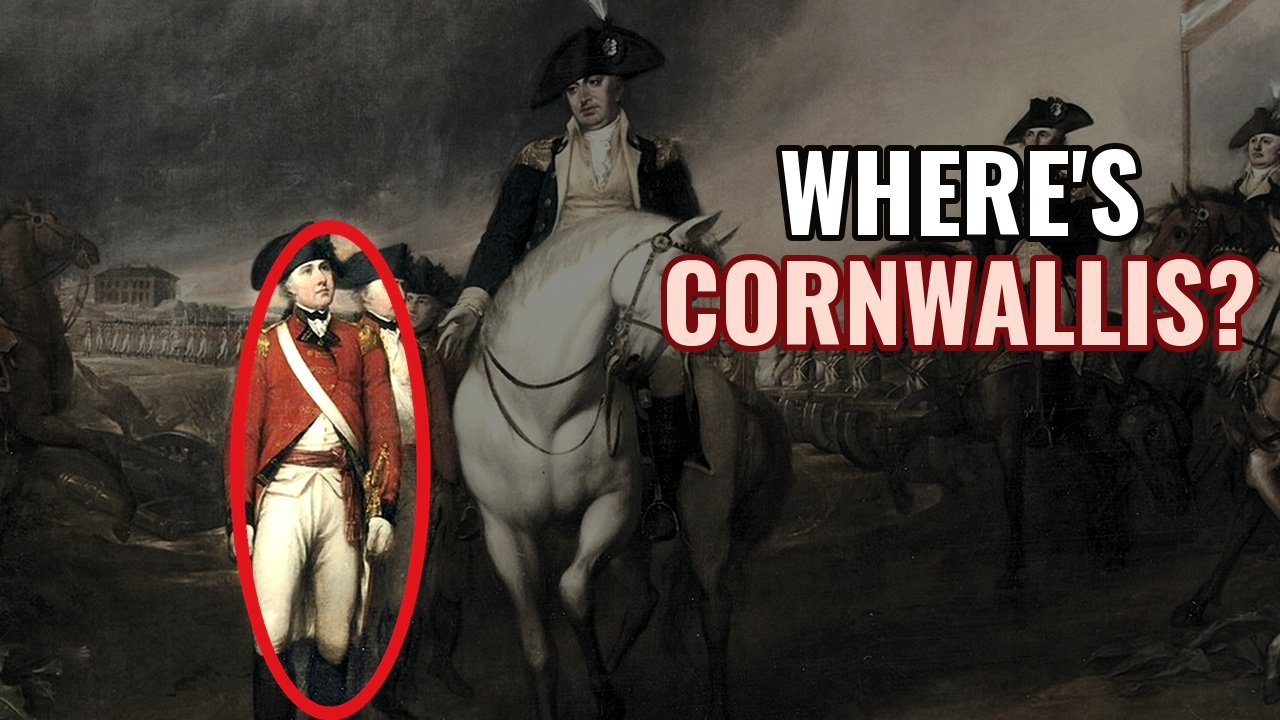
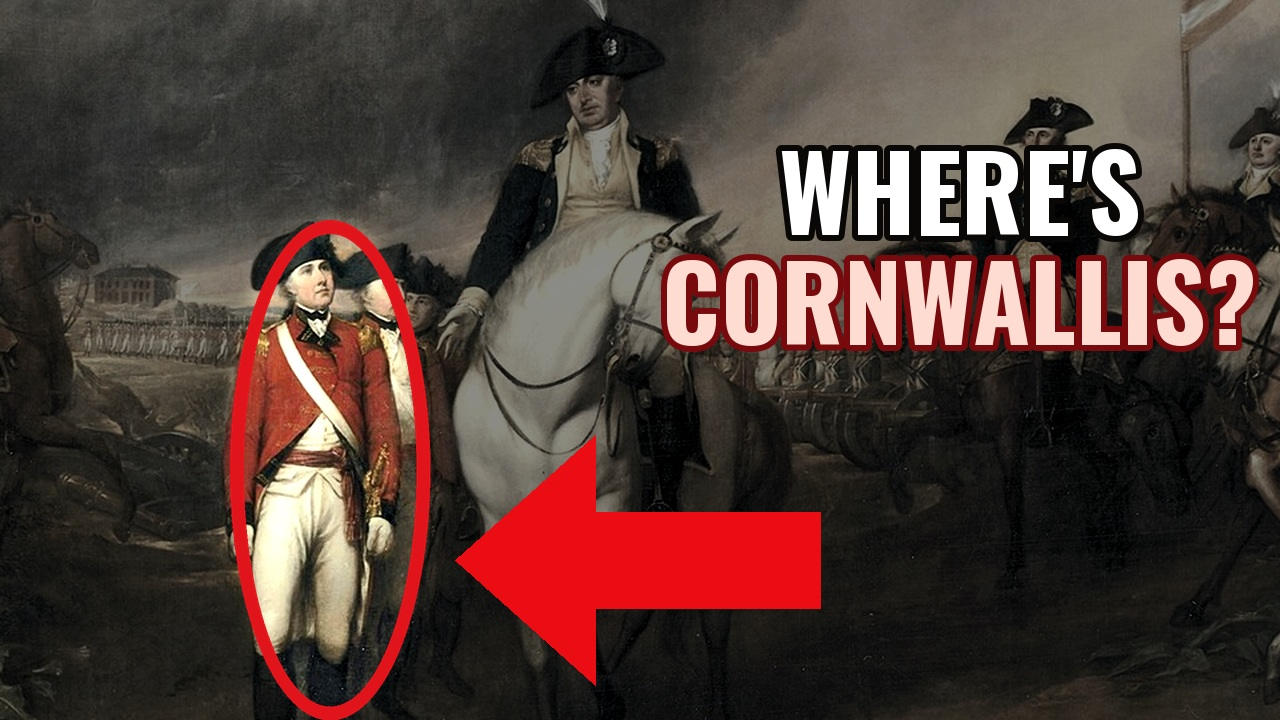
Yorktown: thumbnail B generated with vidIQ (HistoryMarche ref), C bigger arrow (Dark Docs ref), side-by-side reference sheet
Claude-Session: https://claude.ai/code/session_011uJnj9qiTapnfXz7fMPUDU

Changed region(s): [[0.3438, 0.6111, 0.6562, 0.9472]]

diff --git a/yorktown/tools/make_thumb_v5.py b/yorktown/tools/make_thumb_v5.py
@@ -51,17 +51,12 @@ tw = d.textlength("THE TRAP", font=f); bw = int(tw + 70); bx, by = W - bw - 36, 
 brush(d, bx, by, bw, 150, 3); d.text((bx + bw / 2, by + 14), "THE TRAP", font=f, fill=(252, 248, 238), anchor="ma", stroke_width=3, stroke_fill=(30, 8, 8))
 d.text((bx + bw / 2, by + 168), "YORKTOWN", font=f2, fill=(255, 255, 255), anchor="ma", stroke_width=5, stroke_fill=(10, 8, 6))
 A.convert("RGB").save("youtube/thumb/yorktown-thumb5-A_MAIN.jpg", quality=94)
-# ---------- B
-fr = Image.open(sys.argv[1]).convert("RGB").crop((420, 300, 420 + 1250, 300 + 703)).resize((W, H), Image.LANCZOS)
-fr = ImageEnhance.Contrast(ImageEnhance.Color(fr).enhance(1.15)).enhance(1.1).convert("RGBA")
+# ---------- B (owner 2026-11-13: generated with vidIQ from the HistoryMarche HATTIN reference, not a real frame)
+B = Image.open("youtube/thumb/bg_vidiq_B_map.jpg").convert("RGB").resize((W, H), Image.LANCZOS).convert("RGBA")
 ov = Image.new("RGBA", (W, H), (0, 0, 0, 0)); o = ImageDraw.Draw(ov)
-for i in range(250): o.line([(0, i), (W, i)], fill=(10, 9, 7, int(250 if i < 175 else 250 * (1 - (i - 175) / 75))))
-B = Image.alpha_composite(fr, ov)
-arrow(B, ell(700, 330, 420, 270, 192, 12, -1), width=36, head=70)   # inside the frame, round the British works, ends at the river east of the redoubts
-d = ImageDraw.Draw(B)
-d.text((W / 2, 14), "YORKTOWN · 1781", font=ImageFont.truetype(F, 116), fill=(255, 255, 255), anchor="ma", stroke_width=6, stroke_fill=(10, 8, 6))
-fs = ImageFont.truetype(F, 66); t = "THE TRAP"; tw = d.textlength(t, font=fs)
-d.rectangle([W / 2 - tw / 2 - 26, 166, W / 2 + tw / 2 + 26, 252], fill=(196, 22, 28)); d.text((W / 2, 170), t, font=fs, fill=(255, 255, 255), anchor="ma")
+for i in range(190): o.line([(0, i), (W, i)], fill=(10, 9, 7, int(170 * (1 - i / 190))))
+B = Image.alpha_composite(B, ov); d = ImageDraw.Draw(B)
+d.text((W / 2, 18), "YORKTOWN, 1781", font=ImageFont.truetype(F, 120), fill=(255, 255, 255), anchor="ma", stroke_width=7, stroke_fill=(10, 8, 6))
 B.convert("RGB").save("youtube/thumb/yorktown-thumb5-B_MAP.jpg", quality=94)
 # ---------- C
 tr = Image.open("assets/archive/trumbull_surrender.jpg").convert("RGB")
@@ -73,15 +68,28 @@ dark = ImageEnhance.Color(ImageEnhance.Brightness(tr).enhance(0.55)).enhance(0.5
 C = Image.composite(tr, dark, m).convert("RGBA")
 c = Image.new("RGBA", (W * 2, H * 2), (0, 0, 0, 0)); ImageDraw.Draw(c).ellipse([2 * (ox - rx), 2 * (oy - ry), 2 * (ox + rx), 2 * (oy + ry)], outline=(225, 20, 28, 255), width=28)
 C.alpha_composite(c.resize((W, H), Image.LANCZOS))
+# Dark Docs pattern: one thick red block arrow pointing at the circled detail
+ar = Image.new("RGBA", (W, H), (0, 0, 0, 0)); ad = ImageDraw.Draw(ar)
+ax0, ax1, ay, th = 820, 455, 560, 96
+ad.rectangle([ax1 + 120, ay - th // 2, ax0, ay + th // 2], fill=(235, 12, 20, 255))
+ad.polygon([(ax1, ay), (ax1 + 140, ay - 125), (ax1 + 140, ay + 125)], fill=(235, 12, 20, 255))
+C.alpha_composite(ar)
 d = ImageDraw.Draw(C); f = ImageFont.truetype(F, 104)
 d.text((960, 110), "WHERE'S", font=f, fill=(255, 255, 255), anchor="ma", stroke_width=6, stroke_fill=(10, 8, 6))
 d.text((960, 220), "CORNWALLIS?", font=f, fill=(255, 220, 210), anchor="ma", stroke_width=6, stroke_fill=(120, 10, 14))
 C.convert("RGB").save("youtube/thumb/yorktown-thumb5-C_CIRCLE.jpg", quality=94)
-# ---------- sheet
-F2 = ImageFont.truetype(F, 22)
-s = Image.new("RGB", (3 * 640 + 80, 560), (24, 22, 20)); d = ImageDraw.Draw(s)
-for i, (p, t) in enumerate([("A_MAIN", "A (main) face + THE TRAP + arrow"), ("B_MAP", "B our map: YORKTOWN, 1781 + one arrow"), ("C_CIRCLE", "C Trumbull: O'Hara circled")]):
-    im = Image.open(f"youtube/thumb/yorktown-thumb5-{p}.jpg"); x = 20 + i * 660
-    s.paste(im.resize((640, 360), Image.LANCZOS), (x, 40)); d.text((x, 10), t, font=F2, fill=(230, 220, 200))
-    s.paste(im.resize((168, 94), Image.LANCZOS), (x, 420)); d.text((x + 180, 455), "feed size 168x94", font=F2, fill=(170, 160, 140))
-s.save("youtube/thumb/thumb5_sheet.jpg", quality=92); print("ok")
+# ---------- comparison sheet: each of ours next to its reference, big + feed size
+F2 = ImageFont.truetype(F, 24)
+rows = [("A_MAIN", "ref_A_grant16.jpg", "A  ours  |  reference: our Grant #16 thumbnail (~7% day-1 CTR)"),
+        ("B_MAP", "ref_B_historymarche_hattin.jpg", "B  ours  |  reference: HistoryMarche 'HATTIN, 1187' (5.4M, 15.8x)"),
+        ("C_CIRCLE", "ref_C_darkdocs_circle.jpg", "C  ours  |  reference: Dark Docs red arrow + circle (3.9M, 38.5x)")]
+s = Image.new("RGB", (2 * 640 + 2 * 168 + 100, 3 * 410 + 20), (24, 22, 20)); d = ImageDraw.Draw(s)
+for r, (p, ref, lab) in enumerate(rows):
+    y = 14 + r * 410; d.text((20, y), lab, font=F2, fill=(235, 225, 205))
+    for k, f in enumerate([f"youtube/thumb/yorktown-thumb5-{p}.jpg", "youtube/thumb/" + ref]):
+        im = Image.open(f).convert("RGB"); x = 20 + k * 660
+        s.paste(im.resize((640, 360), Image.LANCZOS), (x, y + 38))
+    for k, f in enumerate([f"youtube/thumb/yorktown-thumb5-{p}.jpg", "youtube/thumb/" + ref]):
+        im = Image.open(f).convert("RGB"); s.paste(im.resize((168, 94), Image.LANCZOS), (1340 + k * 188, y + 38))
+    d.text((1340, y + 140), "feed size: ours | ref", font=ImageFont.truetype(F, 18), fill=(170, 160, 140))
+s.save("youtube/thumb/thumb5_vs_refs.jpg", quality=92); print("ok")
